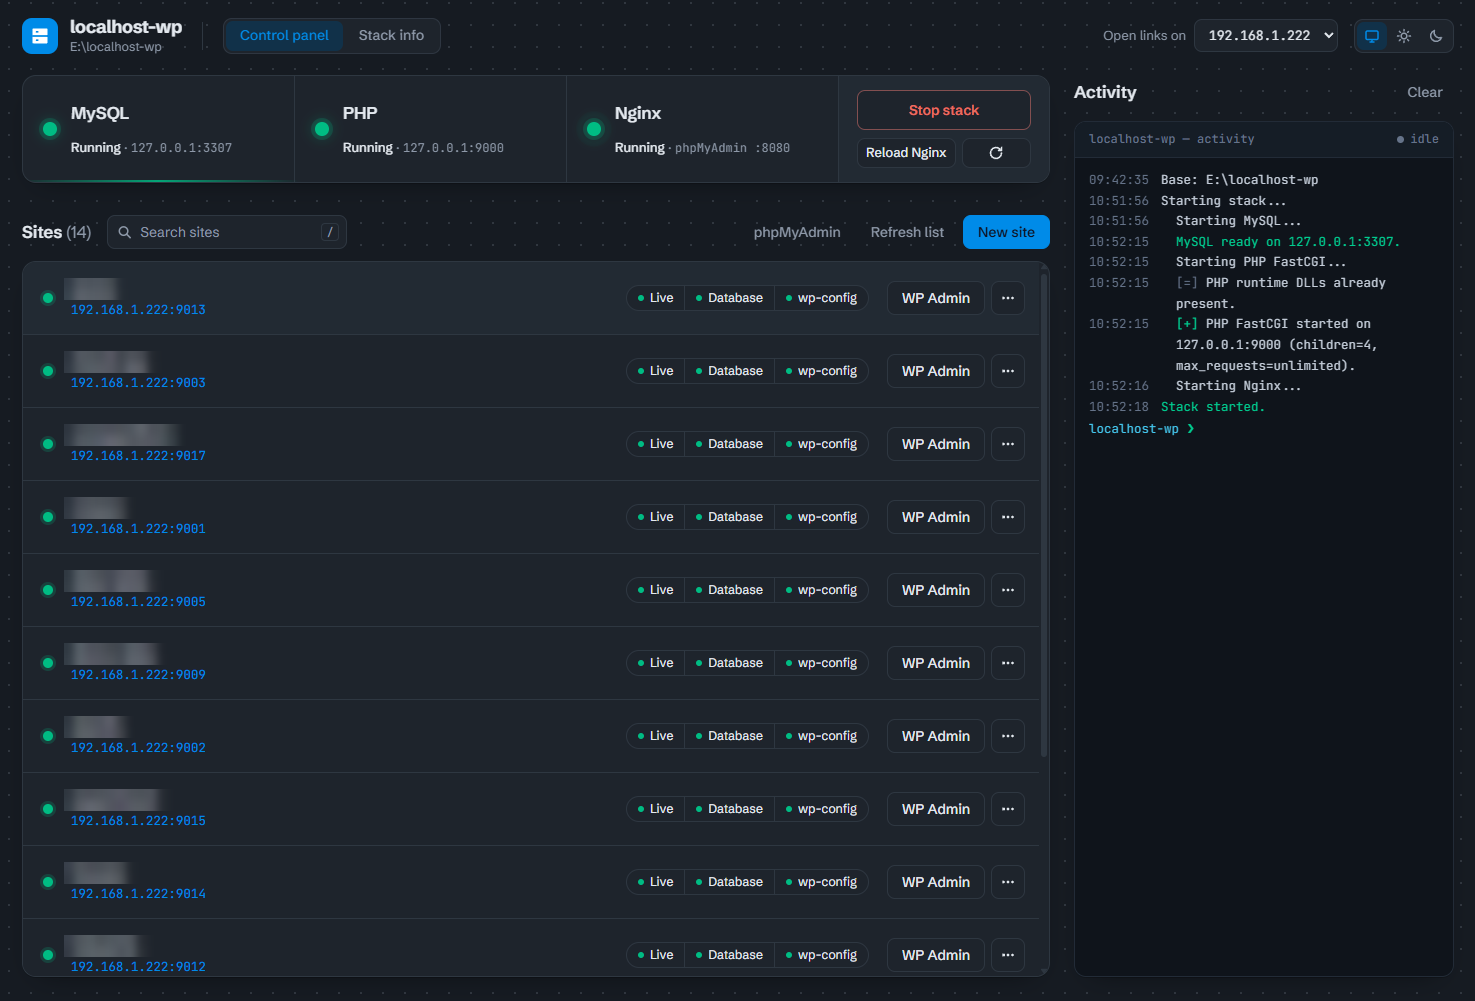
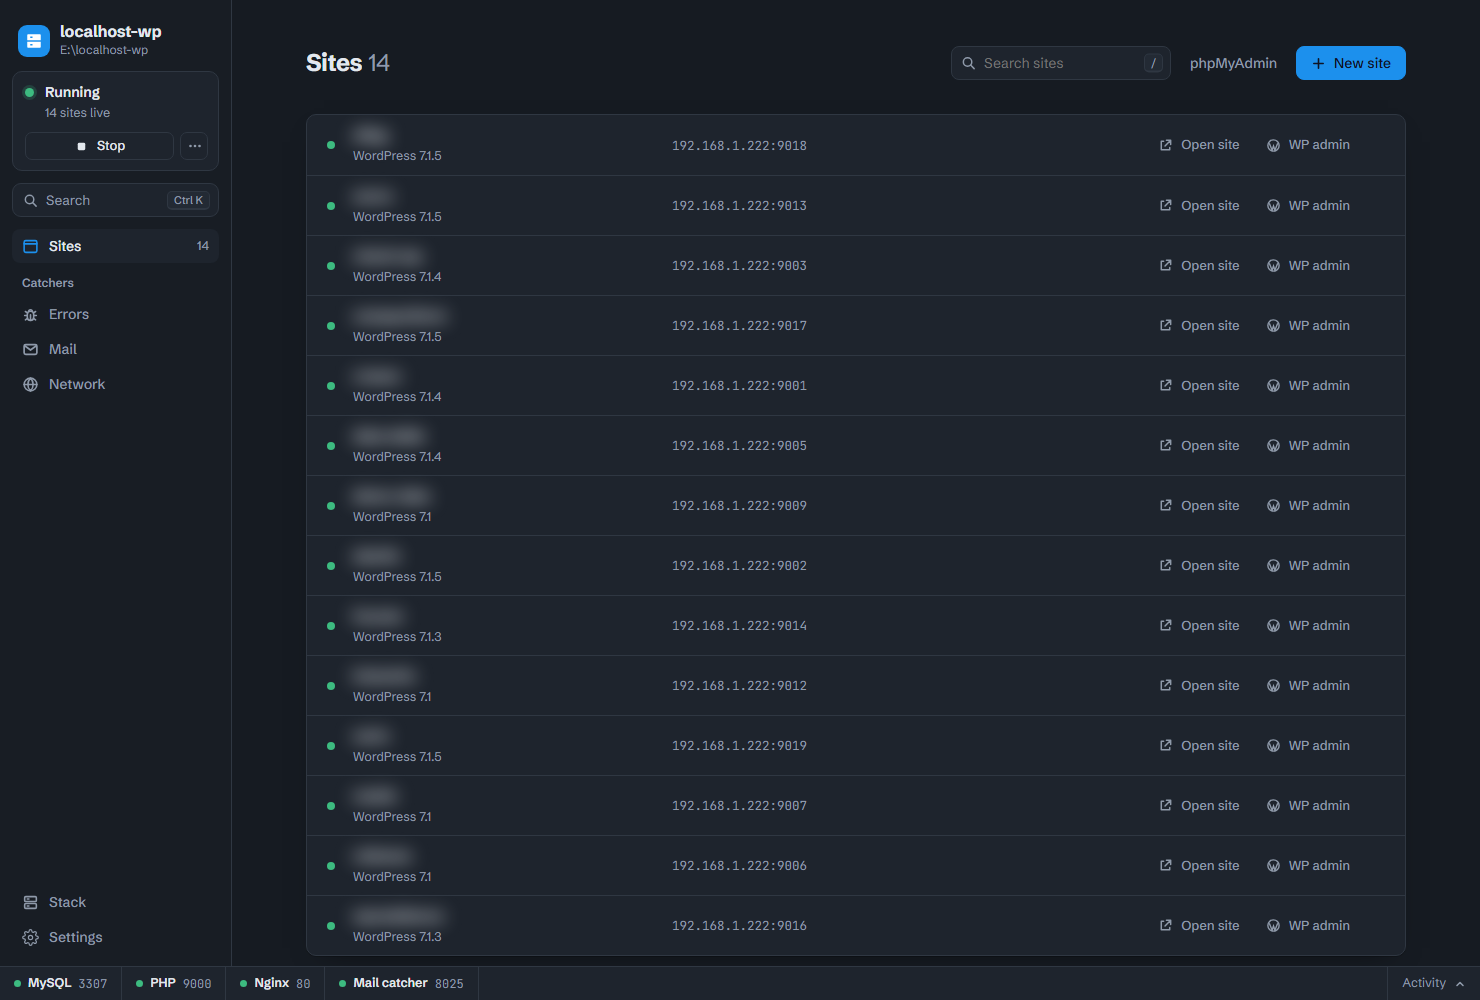
new glimpse screenshots, app settings stay local

diff --git a/README.md b/README.md
@@ -273,7 +273,8 @@ sites/mysite/sql/
 
 ## Glimpse
 
-![Dashboard](./dashboard/dashboard1.png)  
-![Stack info](./dashboard/dashboard2.png)  
+![Sites](./dashboard/dashboard1.png)  
+![Stack](./dashboard/dashboard2.png)  
+![Settings, PHP & MySQL](./dashboard/dashboard3.png)  
 ![Server Running](./dashboard/server-running.png)  
 
